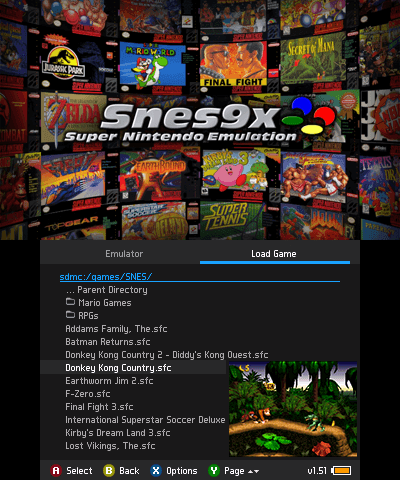
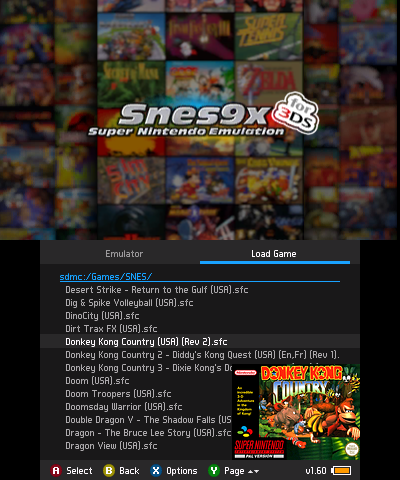
Prepare v1.60 release docs and licensing

diff --git a/README.md b/README.md
@@ -1,44 +1,70 @@
 # Snes9x for 3DS
 
-## Purpose:
+## Overview
 
-This fork adds several features to bubble2k's great implementation, giving you more options to enjoy your game collection. It's built with recent versions of devkitARM (r62) and libctru (2.2.2). See [Building from source](#building-from-source) for more info. Feedback and bug reports are welcome. Help with development is also welcome. 
+This project is a fork of the legacy snes9x_3ds codebase by [bubble2k](https://github.com/bubble2k16/snes9x_3ds) and continues that work with a modernized architecture and improved user experience.
+It builds with current devkitARM, libctru and citro3d releases (as of March 2026). Optional assets are available in the dedicated asset repository: [snes9x_3ds-assets](https://github.com/matbo87/snes9x_3ds-assets).
 
-## Main features:
+It works on all 2DS and 3DS models. Old 2DS/3DS can struggle with demanding games (e.g. Super FX titles like Star Fox), but many SNES games still run well.
 
-* Game thumbnails (boxart, title, gameplay)
-* Border (bezel) and second screen image (cover) for each game
-* Themes
-* Improved cheat menu
-* RetroArch-ish folder structure to keep game collections clean
-* Swap screen and more hotkey options
-* ready to use and cleaned up [no-intro sets](https://github.com/matbo87/snes9x_3ds-assets) for cheats, thumbnails, borders and covers 
+Feedback, bug reports and contributions are welcome.
 
-## Setup:
+## Main features
 
-* Download latest cia version [here](https://github.com/matbo87/snes9x_3ds/releases) and install via [FBI](https://github.com/Steveice10/FBI/releases).
-* (Optional) Download latest no-intro sets [here](https://github.com/matbo87/snes9x_3ds-assets/releases).
+* Thumbnail support (box art, title and gameplay)
+* Per-game backgrounds for top and bottom screens, overlays with auto-fit option
+* SNES refresh rate matching (60.1 Hz for NTSC, 50 Hz for PAL)
+* Theme support
+* Improved cheat management
+* Clean, RetroArch-style folder structure
+* Directory caching for faster ROM list loading
+* Extended hotkey options and screen swap support
 
-You can put your SNES games inside any folder. Keep in mind that zip files are not supported. Your game has to be in ".smc", ".sfc" or ".fig" format.<br>
-Configs, saves and other assets are located at **sd:/3ds/snes9x3ds**
+## Setup
 
-### 3dsx Version:
-* Copy snes9x_3ds.3dsx and snes9x_3ds.sdmh to **sd:/3ds/snes9x_3ds**
-* Go to your Homebrew Launcher and launch the snes9x_3ds emulator
+* A modded 3DS is required.
+* Install via [Universal Updater](https://universal-team.net/projects/universal-updater.html), or install the latest `.cia` from [Releases](https://github.com/matbo87/snes9x_3ds/releases)
+* Optional: download asset packs from [snes9x_3ds-assets releases](https://github.com/matbo87/snes9x_3ds-assets/releases).
 
+ROMs can be stored in any folder. ZIP files are not supported.
 
-## Images and cheats
-See https://github.com/matbo87/snes9x_3ds-assets.
+Supported ROM formats:
+* `.smc`
+* `.sfc`
+* `.fig`
 
+Configs, saves and imported assets are stored in `sd:/3ds/snes9x_3ds`.
+
+### 3DSX version
+
+* Copy `snes9x_3ds.3dsx` to `sd:/3ds/snes9x_3ds`
+* Start it from the Homebrew Launcher
+
+## Assets (images and cheats)
+
+Assets are provided in dedicated asset repository:
+* [matbo87/snes9x_3ds-assets](https://github.com/matbo87/snes9x_3ds-assets)
+
+Notes:
+
+* The repository follows a 1G1R-style selection.
+* Naming is strict No-Intro style for matching.
 
 ## Building from source
-* Make sure you have devkitPro and ctrulib installed correctly. 
-If not, https://devkitpro.org/wiki/devkitPro_pacman will guide you through this process.
-* Makefile is based on TricksterGuy's [3ds-template](https://github.com/TricksterGuy/3ds-template). 
-* Run `make 3dslink` to send the 3dsx build to your homebrew launcher.
 
-You can use citra as well, but game emulation is broken (no sound + snes tiles are not rendered properly). This issue is several years old - probably since libctru 1.5.x.
-I wasn't able to fix it - maybe you will be able to.
+* Install devkitPro and 3DS toolchain packages (including devkitARM, libctru, citro3d). If needed, follow the [devkitPro pacman guide](https://devkitpro.org/wiki/devkitPro_pacman).
+* The Makefile is based on TricksterGuy's [3ds-template](https://github.com/TricksterGuy/3ds-template).
+
+Common build targets:
+
+* `make 3dsx`
+* `make citra`
+* `make 3dslink` (sends the `.3dsx` to your Homebrew Launcher)
+
+### Emulator status
+
+* Citra macOS (Nightly 1989): incomplete (no audio, Mode 7 textures only partially visible)
+* Other 3DS emulators: not tested by me
 
 ## Screenshots
 
@@ -49,7 +75,7 @@ I wasn't able to fix it - maybe you will be able to.
   </tr>
   <tr>
     <td valign="top" width="50%">Start screen, File menu tab with "Game Thumbnail" option enabled</td>
-    <td valign="top" width="50%">Pause screen, Retroarch theme, game loaded</td>
+    <td valign="top" width="50%">Pause screen, RetroArch theme, per-game overlay enabled</td>
   </tr>
   <tr><td colspan="2"></td></tr>
   <tr></tr>
@@ -58,8 +84,8 @@ I wasn't able to fix it - maybe you will be able to.
     <td width="50%" align="center"><img src="screenshots/dkc-tvstyle-hotkeys.png" alt="Donkey Kong Country" valign="bottom"></td>
   </tr>
   <tr>
-    <td valign="top" width="50%">Original theme, Pixel perfect video, cheats enabled</td>
-    <td valign="top" width="50%">TV style video, Applied Hotkeys + "Analog to Digital Type" disabled</td>
+    <td valign="top" width="50%">Original theme, pixel-perfect video, cheats enabled</td>
+    <td valign="top" width="50%">TV-style video, applied hotkeys + "Analog to Digital Type" disabled</td>
   </tr>
   <tr><td colspan="2"></td></tr>
   <tr></tr>
@@ -69,62 +95,67 @@ I wasn't able to fix it - maybe you will be able to.
   </tr>
   <tr>
     <td valign="top" width="50%">Cropped 4:3 video, game-specific cover</td>
-    <td valign="top" width="50%">4:3 Video, Swapped screen and konami cheat via 2-Player-Switch</td>
-  </tr>
+    <td valign="top" width="50%">4:3 video, swapped screen and Konami cheat via 2-Player-Switch</td>
+ </tr>
  </table>
-
 
 ## Frequently Asked Questions
 
-### Game runs slow / looks wrong / has sound issues. What can I do?
+### A game runs slow. How can I improve performance?
 
-There are some emulator options, which may improve gaming experience
+* Increase `Frameskips` (try 1-2 first)
+* Set `SRAM Auto-Save Delay` to 60 seconds or disable it
+* Set `In-Frame Palette Changes` to `Disabled Style 1` or `Disabled Style 2`
+* Disable 3D and/or on-screen display settings
+* If available, try the PAL version of the game (50 FPS instead of 60 FPS)
+* Super FX games often run poorly on old 2DS/3DS models
+* Check the [Compatibility List](http://wiki.gbatemp.net/wiki/Snes9x_for_3DS) with care, it may be outdated
 
-* Go to emulator options tab and change the SRAM Auto-Save Delay to 60 seconds, or disable it entirely. There is also a SRAM-on-pause option.
-* Go to emulator options tab and change the In-Frame Palette Changes to either one of the 3 options: Enabled, Disabled Style 1, Disabled Style 2. Color emulation is never perfect because we are using the 3DS GPU for rendering, which doesn't allow us to do what the SNES requires.
-* Enabled cheats may also result in bad gaming experience. Disable them and reload the game
-* Ensure that your game file isn't corrupt. Try another revision or region.
-* Some games are just not running well on this emulator. (see [Compatibility List](http://wiki.gbatemp.net/wiki/Snes9x_for_3DS))
+### A game looks broken or has visual glitches. What can I try?
 
-
-### Thumbnail caching is slow
-Split up your game collection in sub folders. The more games you have in one single folder, the slower the caching.
-
-### A lot of my games don't show any game preview
-Make sure, game filename matches with image filename. For more information see https://github.com/matbo87/snes9x_3ds-assets
+* Set `In-Frame Palette Changes` to `Enabled`
+* Enabled cheats can break visuals or gameplay; disable cheats and reload the game
+* Check if your ROM is valid (No-Intro is highly recommended; ROM hacks may have issues)
+* Check the [Compatibility List](http://wiki.gbatemp.net/wiki/Snes9x_for_3DS) with care, it may be outdated
 
 ### Cheats are not working properly
 
-The cheat set is roughly tested. So it is possible that some cheats will not work or even damage your savegame. Use them with caution.
-
-### Can I use my save states generated from Windows versions of Snes9x?
-
-You can try using save states from Snes9x v1.43, but sometimes this emulator doesn't recognize them.
+* The cheat set is only roughly tested
+* Some cheats may not work correctly and may damage save data
+* Always use cheats with caution
 
 
 ## Snes core features
+
 * Graphic modes 0 * 7.
 * Frame skipping.
 * Stretch to full screen / 4:3 ratio
-* PAL (50fps) / NTSC (60 fps) frame rates.
 * SDD1 chip (Street Fighter 2 Alpha, Star Ocean)
 * SFX1/2 chip (Yoshi's Island, but slow on old 3DS)
 * CX4 chip (Megaman X-2, Megaman X-3)
 * DSP chips (Super Mario Kart)
 * SA-1 chip (Super Mario RPG, Kirby Superstar)
-* Sound emulation (at 32KHz, with echo and gaussian interpolation)
+* Sound emulation (32KHz, with echo and gaussian interpolation)
 
 ## What's missing / needs to be improved
-* Citra SNES emulation is broken (probably since libctru 1.5.x?)
-* Deprecated CSND service
-* Minor sound emulation errors
-* Poor performance in some SFX1/2 games like Doom
-* Mosaics.
-* In-frame palette changes - This is because this emulator uses the 3DS GPU for all graphic rendering. Without in-frame palette changes implemented, a small number of games experience colour issues.
 
+* Citra support is incomplete (no audio, partial Mode 7 rendering)
+* Audio backend depends on deprecated CSND service
+* Minor sound emulation errors
+* Poor performance in some Super FX games (for example Doom)
+* Mosaic effects
+* In-frame palette changes (a small number of games show color issues)
+
+## License
+
+Some files may carry their own license headers, but because this project includes the Snes9x core (`source/Snes9x/`), redistribution of the combined project follows the Snes9x non-commercial license terms.
+
+See:
+* [LICENSE.md](LICENSE.md)
+* [THIRD_PARTY_NOTICES.md](THIRD_PARTY_NOTICES.md)
 
 ## Credits
 
-* bubble2k for his [snes9x_3ds emulator](https://github.com/bubble2k16/snes9x_3ds)
-* ramzinouri for his [snes9x_3ds fork](https://github.com/ramzinouri/snes9x_3ds)
-* Asdolo for his [snes9x_3ds forwarder](https://github.com/Asdolo/snes9x_3ds_forwarder)
+* bubble2k for [snes9x_3ds](https://github.com/bubble2k16/snes9x_3ds)
+* ramzinouri for [snes9x_3ds fork](https://github.com/ramzinouri/snes9x_3ds)
+* willjow for [snes9x_3ds fork](https://github.com/willjow/snes9x_3ds)

diff --git a/CHANGELOG.md b/CHANGELOG.md
@@ -1,5 +1,50 @@
-# Change Log
+# Changelog
 Notable changes to this project will be documented in this file.
+
+## v1.60
+
+### Major Changes
+* **Rendering backend migration**: move from legacy GPU code to citro3d
+* **Draw-call batching overhaul**: fewer draw calls via batched rendering and XOR-based packed render-state diffing
+* **GPU decoupling**: separate `gfxhw` state preparation from the GPU submission path for a cleaner rendering pipeline
+
+### Performance
+* **Rendering throughput**:
+  * layer/section collection and merged backdrop/color-math passes to reduce redundant draws
+  * uniform upload and render-state update optimizations (including patched citro3d max-dirty behavior)
+* **I/O and memory**:
+  * faster save/config writes and improved file I/O architecture
+  * reduced heap fragmentation pressure
+  * menu/file navigation streamlined, with snappier behavior on old 2DS/3DS models
+  * improved ROM list caching
+* **Asset handling**:
+  * background assets on 16-bit texture formats (RGB565) to reduce memory bandwidth/footprint
+  * replace `stb_image` with a `libpng`-based path that uses a shared file scratch buffer (`g_fileBuffer`) and an aligned shared stream buffer (`g_streamBuffer`) to reduce heap churn/fragmentation
+
+### Features
+* **Thumbnail system**:
+  * replace fragile thumbnail background-thread loading with on-demand reads from one cache file per thumbnail type
+  * removes shared-state race issues and keeps thumbnail loading fast and stable for large ROM folders
+* **SNES-accurate refresh-rate matching**:
+  * when gameplay starts/resumes, 3DS LCD timing is set to the game's native SNES rate (NTSC ~60.1 Hz / PAL 50 Hz)
+* **On-Screen Display**:
+  * bezel overlay with auto-fit support
+  * FPS overlay option
+  * GPU-accelerated notifications
+* **Stereoscopic 3D additions**:
+  * basic 3D support for splash screen, in-game scene background, and pause overlay
+
+### Stability & Code Quality
+* **Code-quality cleanup**: broad typing, const/sign correctness, return-path, warning cleanup across both 3DS frontend and SNES core
+* **Build warning policy upgrade**: remove old global warning suppression (`-w`) and move to enabled warnings enforcing `-Werror` by default
+
+### Breaking Changes
+* **Config migration**: `settings.cfg` may not migrate cleanly in all cases; defaults can be applied
+* **Thumbnail assets**: legacy per-image thumbnail folders are obsolete; thumbnails now load from `*.cache` files (`boxart.cache`, `gameplay.cache`, `title.cache`)
+* **Background asset paths**:
+  * `snes9x_3ds/borders` -> `snes9x_3ds/backgrounds/game_screen`
+  * `snes9x_3ds/covers` -> `snes9x_3ds/backgrounds/second_screen`
+
 
 ## v1.52
 

diff --git a/LICENSE.md b/LICENSE.md
@@ -1,0 +1,38 @@
+# License
+
+This repository contains a forked/ported SNES emulator and includes the Snes9x core.
+
+Because the Snes9x core is included directly in this source tree, redistribution of this combined project is subject to the Snes9x license terms shown below (non-commercial).
+
+If you want to reuse only project-specific code, treat it as mixed-license code and review `THIRD_PARTY_NOTICES.md` plus file headers first.
+
+## Snes9x License Notice
+
+Source: [source/Snes9x/copyright.h](source/Snes9x/copyright.h)
+
+```
+Snes9x - Portable Super Nintendo Entertainment System (TM) emulator.
+
+Specific ports contains the works of other authors. See headers in
+individual files.
+
+Snes9x homepage: http://www.snes9x.com
+
+Permission to use, copy, modify and distribute Snes9x in both binary and
+source form, for non-commercial purposes, is hereby granted without fee,
+providing that this license information and copyright notice appear with
+all copies and any derived work.
+
+This software is provided 'as-is', without any express or implied
+warranty. In no event shall the authors be held liable for any damages
+arising from the use of this software.
+
+Snes9x is freeware for PERSONAL USE only. Commercial users should
+seek permission of the copyright holders first. Commercial use includes
+charging money for Snes9x or software derived from Snes9x.
+```
+
+## Third-party Components
+
+See [THIRD_PARTY_NOTICES.md](THIRD_PARTY_NOTICES.md) for dependency and attribution notes.
+

diff --git a/THIRD_PARTY_NOTICES.md b/THIRD_PARTY_NOTICES.md
@@ -1,0 +1,32 @@
+# Third-Party Notices
+
+This project depends on third-party libraries/toolchains. Their licenses apply to those components.
+
+## Bundled Core
+
+- **Snes9x core** (in `source/Snes9x/`):
+  - License terms: non-commercial Snes9x license
+  - Notice/source: `source/Snes9x/copyright.h`
+
+## Linked Libraries (build/runtime)
+
+Based on current build flags in `Makefile`:
+
+- `-lcitro3d` (citro3d, devkitPro ecosystem)
+- `-lctru` (libctru, devkitPro ecosystem)
+- `-lpng` (libpng)
+- `-lz` (zlib)
+- `-lm` (system math library)
+
+Please consult each upstream project for exact license text/version requirements.
+
+## Toolchain
+
+This project is built with devkitPro / devkitARM tooling. Toolchain binaries and packaged components are licensed by their respective upstream projects.
+
+## Attribution and Compliance
+
+- Keep original copyright/license headers.
+- Keep the Snes9x notice when redistributing source/binaries derived from this repository.
+- For distribution packages, include this file and `LICENSE.md`.
+
